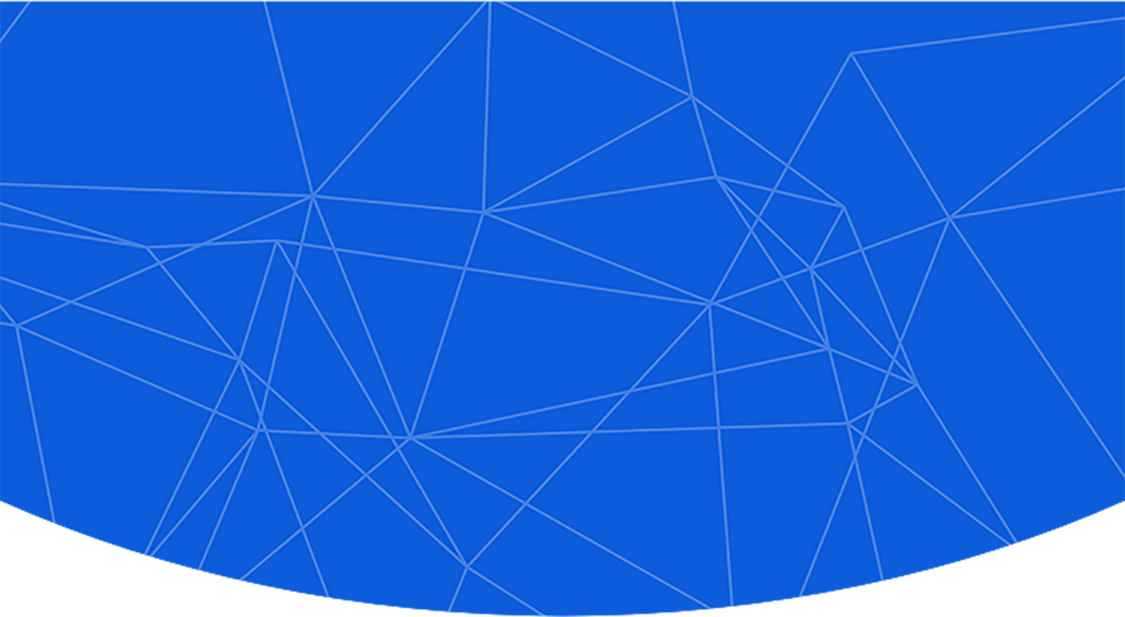
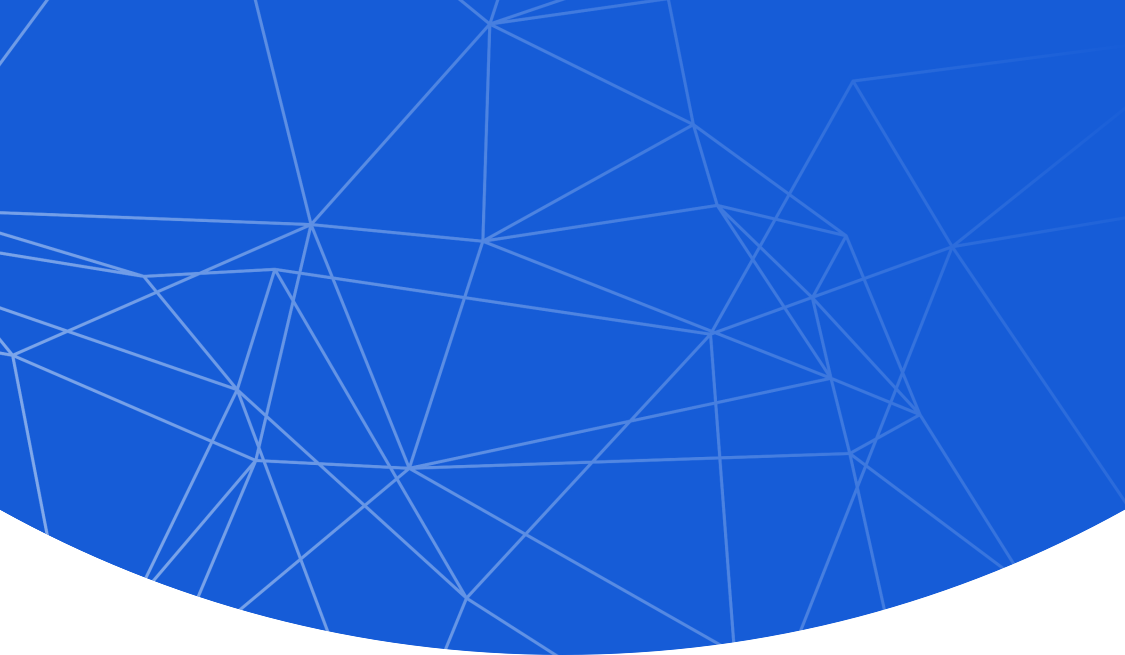
fix ui

diff --git a/src/containers/create-wallet/create-wallet.ts b/src/containers/create-wallet/create-wallet.ts
@@ -1,7 +1,7 @@
 import {
-	Component,
-	OnDestroy,
-	OnInit
+  Component,
+  OnDestroy,
+  OnInit
 } from '@angular/core'
 import { Store } from '@ngrx/store'
 import {
@@ -39,7 +39,7 @@ export class CreateWalletPage implements OnInit {
   private wifError: string
 
 
-  constructor (
+  constructor(
     private navCtrl: NavController,
     private store: Store<fromWallet.State>,
     private np: NotificationProvider,
@@ -48,12 +48,16 @@ export class CreateWalletPage implements OnInit {
     private ts: TranslateService,
   ) { }
 
-  ngOnInit () {
+  ngOnInit() {
     this.store.select(AuthSelectors.getLoading).subscribe(bool => this.lp.emit(bool))
-		this.store.select(AuthSelectors.getError).subscribe(err => this.np.emit({ message: err }))
+    this.store.select(AuthSelectors.getError).subscribe(err => {
+      this.ts.get('CW.create_error').subscribe(data => {
+        return this.np.emit({ message: data })
+      })
+    })
   }
 
-  get disabledButton () {
+  get disabledButton() {
     if (this.wif)
       return !this.passphrase1 || !this.passphrase2 ||
         (this.passphrase1 !== this.passphrase2) ||
@@ -65,65 +69,69 @@ export class CreateWalletPage implements OnInit {
       !this.protocolAgreement
   }
 
-  async createWallet () {
+  async createWallet() {
     try {
 
-		const loading = this.loadingCtrl.create()
-		await loading.present()
+      const loading = this.loadingCtrl.create()
+      await loading.present()
 
 
-		setTimeout(() => {
-		    loading.dismiss().catch(() => {})
-    }, 1000)
+      setTimeout(() => {
+        loading.dismiss().catch(() => { })
+      }, 1000)
 
-    if (this.passphrase1 !== this.passphrase2) {
-      return
+      if (this.passphrase1 !== this.passphrase2) {
+        return
+      }
+
+      let pwdtip
+      this.ts.get('CW.BACKUP.pwdtip').subscribe(data => {
+        pwdtip = data
+      })
+
+      if (this.passphrase1 && !this.validatePassphraseStrength(this.passphrase1)) {
+        return this.np.emit({ message: pwdtip })
+      }
+
+
+
+
+      // if (this.wif && !wallet.isWIF(this.wif)) {
+      //   this.np.emit({ message: 'WIF format wrong' })
+      //   return
+      // }
+
+      // const variations: object = {
+      //     digits: /\d/.test(this.passphrase1), // 数字
+      //     lower: /[a-z]/.test(this.passphrase1), // 小写
+      //     upper: /[A-Z]/.test(this.passphrase1), // 大写
+      //     length: this.passphrase1.length > 10 // 长度 11位
+      // }
+
+      // if (/\d/.test(this.passphrase1) && /[a-z]/.test(this.passphrase1) && /[A-Z]/.test(this.passphrase1) && this.passphrase1.length > 10 ) {
+
+      // }
+
+      const dispatchOption = {
+        wif: this.wif,
+        label: this.name,
+        passphrase: this.passphrase1
+      }
+      loading.dismiss().catch(() => { }).catch(() => { })
+      this.store.dispatch(new AuthActions.CreateWallet(dispatchOption))
+
+    } catch (error) {
+
+      this.ts.get('CW.create_error').subscribe(data => {
+        return this.np.emit({ message: data })
+      })
+
     }
-
-    let pwdtip
-    this.ts.get('CW.BACKUP.pwdtip').subscribe(data => {
-      pwdtip = data
-    })
-
-    if (this.passphrase1 && !this.validatePassphraseStrength(this.passphrase1)) {
-      return this.np.emit({ message: pwdtip })
-    }
-
-
-
-
-    // if (this.wif && !wallet.isWIF(this.wif)) {
-    //   this.np.emit({ message: 'WIF format wrong' })
-    //   return
-    // }
-
-    // const variations: object = {
-    //     digits: /\d/.test(this.passphrase1), // 数字
-    //     lower: /[a-z]/.test(this.passphrase1), // 小写
-    //     upper: /[A-Z]/.test(this.passphrase1), // 大写
-    //     length: this.passphrase1.length > 10 // 长度 11位
-    // }
-
-    // if (/\d/.test(this.passphrase1) && /[a-z]/.test(this.passphrase1) && /[A-Z]/.test(this.passphrase1) && this.passphrase1.length > 10 ) {
-
-    // }
-
-    const dispatchOption = {
-      wif: this.wif,
-      label: this.name,
-      passphrase: this.passphrase1
-    }
-    loading.dismiss().catch(() => {}).catch(() => {})
-    this.store.dispatch(new AuthActions.CreateWallet(dispatchOption))
-
-  } catch (error) {
 
   }
 
-  }
-
-  validatePassphraseStrength (passphrase) {
-    return  8 <= this.passphrase1.length && this.passphrase1.length <= 16
+  validatePassphraseStrength(passphrase) {
+    return 8 <= this.passphrase1.length && this.passphrase1.length <= 16
     // return /\d/.test(this.passphrase1) && /[a-z]/.test(this.passphrase1) && /[A-Z]/.test(this.passphrase1) && this.passphrase1.length > 10
   }
 }

diff --git a/src/containers/profile/profile.scss b/src/containers/profile/profile.scss
@@ -24,19 +24,19 @@ page-profile {
       justify-content: center;
       align-items: center;
       flex-direction: column;
-      width: 500px;
+      width: 100%;
 
       box-shadow: none;
       background-image: url("../assets/imgs/bg-profile.png");
       background-size: cover;
-      background-position: center;
+      // background-position: center;
       background-color: #0d5cdb;
 
-      border-left: 70px solid transparent;
-      border-right: 70px solid transparent;
+      // border-left: 70px solid transparent;
+      // border-right: 70px solid transparent;
 
-      border-bottom-right-radius: 50%;
-      border-bottom-left-radius: 50%;
+      border-bottom-right-radius: 40%;
+      border-bottom-left-radius: 40%;
 
       & > * {
         margin-bottom: 10px;
@@ -56,9 +56,10 @@ page-profile {
         }
       }
       .card-title {
+        margin-top: 2rem;
         font-size: 2rem;
         letter-spacing: 0.1rem;
-        width: 100%;
+        width: 90%;
         font-weight: bold;
         color: #fff;
       }
@@ -96,6 +97,7 @@ page-profile {
     }
 
     profile-nav {
+      margin-top: 2rem;
       width: 90%;
 
       ion-card.card-nav {

diff --git a/src/containers/login/login.ts b/src/containers/login/login.ts
@@ -44,7 +44,15 @@ export class LoginPage implements OnInit {
 	) {}
 
 	ngOnInit () {
-		this.store.select(AuthSelectors.getError).subscribe(error => error && this.np.emit({ message: error }))
+		this.store.select(AuthSelectors.getError).subscribe(error => {
+      if (error) {
+        this.ts.get(this.translationPrefix + 'nep2_passphrase_error').subscribe(data => {
+          this.np.emit(data)
+        })
+
+      }
+
+    })
     this.store.select(AuthSelectors.getLoading).subscribe(bool => bool && this.lp.emit(bool))
 	}
 

diff --git a/src/components/profile/manage-wallet/manage-wallet-card.scss b/src/components/profile/manage-wallet/manage-wallet-card.scss
@@ -61,7 +61,8 @@ manage-wallet-card {
   }
 
   .mw__label {
-    position: absolute;
+    position: fixed;
+    top:8rem;
     left: 2rem;
     width: 86%;
     text-align: left;

diff --git a/src/components/profile/manage-wallet/manage-wallet-card.html b/src/components/profile/manage-wallet/manage-wallet-card.html
@@ -1,6 +1,6 @@
 <ion-slide>
 	<div class="card">
-		<div class="mw__label" [style.top]="labelTop">
+		<div class="mw__label">
 			{{ label }}
 		</div>
 
